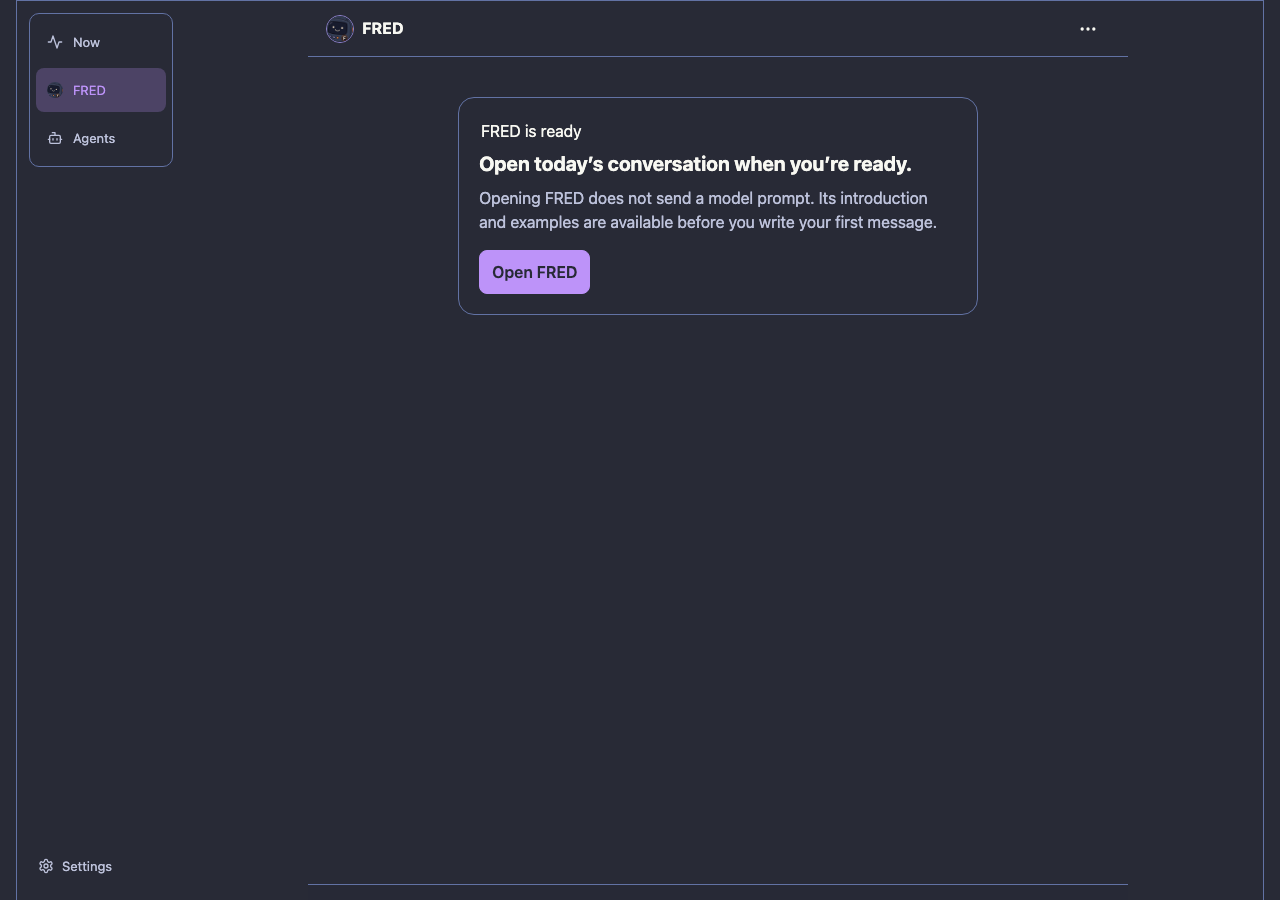
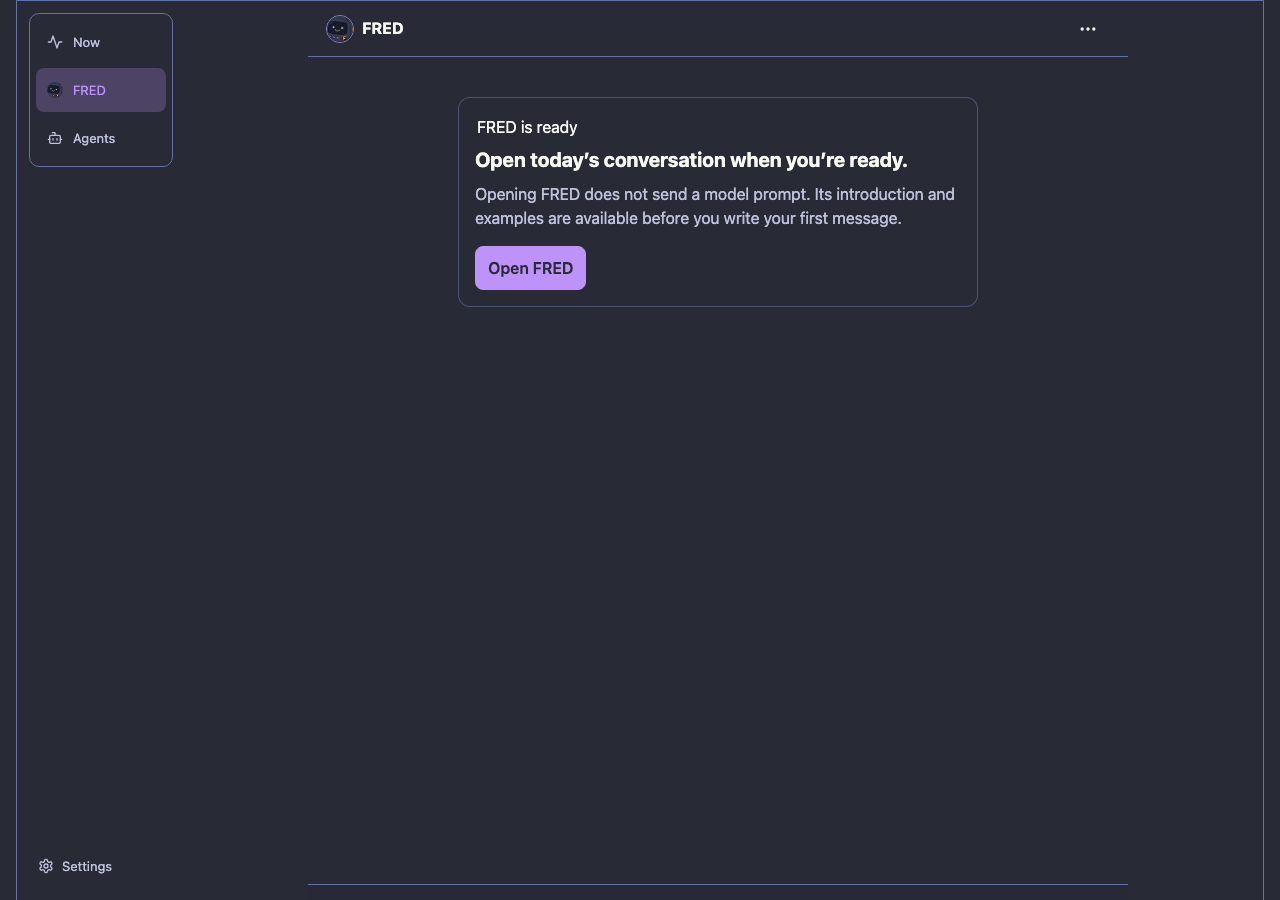
Guard remaining FRED mutations

Changed region(s): [[0.3438, 0.1244, 0.75, 0.3422]]

diff --git a/lib/hq/remote_ui/assets/app.js b/lib/hq/remote_ui/assets/app.js
@@ -4727,11 +4727,11 @@ function renderPersonalAssistantWelcome() {
 
 function renderPersonalAssistantSetup(item) {
   const config = item.config || {};
-  return `<section class="pa-setup" aria-labelledby="pa-setup-title"><span class="section-label">FRED setup</span><h2 id="pa-setup-title">Choose how FRED should work</h2><p>Review the Codex model, reasoning effort, and IANA timezone before saving. Opening FRED creates today’s conversation; your first message stays yours.</p><form id="personal-assistant-setup-form"><label>Codex model<input name="model" required value="${escapeAttr(config.model || "gpt-5.6-sol")}" autocomplete="off"></label><label>Reasoning effort<input name="reasoning_effort" required value="${escapeAttr(config.reasoning_effort || "medium")}" autocomplete="off"></label><label>IANA timezone<input name="timezone" required value="${escapeAttr(config.timezone || Intl.DateTimeFormat().resolvedOptions().timeZone || "UTC")}" placeholder="Asia/Jakarta" autocomplete="off"></label><label class="pa-confirmation"><input name="confirmed" type="checkbox" required> I confirm these settings for FRED.</label><button class="ui-button" data-variant="brand" type="submit">Save FRED setup</button></form></section>`;
+  return `<section class="pa-setup ui-surface" aria-labelledby="pa-setup-title"><span class="section-label">FRED setup</span><h2 id="pa-setup-title">Choose how FRED should work</h2><p id="pa-setup-guidance">Review the Codex model, reasoning effort, and IANA timezone before saving. Opening FRED creates today’s conversation; your first message stays yours.</p><form id="personal-assistant-setup-form" class="ui-form-layout" aria-describedby="pa-setup-guidance"><div class="ui-field"><label class="ui-field__label" for="pa-model">Codex model</label><input class="ui-input" id="pa-model" name="model" required value="${escapeAttr(config.model || "gpt-5.6-sol")}" autocomplete="off"></div><div class="ui-field"><label class="ui-field__label" for="pa-reasoning-effort">Reasoning effort</label><input class="ui-input" id="pa-reasoning-effort" name="reasoning_effort" required value="${escapeAttr(config.reasoning_effort || "medium")}" autocomplete="off"></div><div class="ui-field"><label class="ui-field__label" for="pa-timezone">IANA timezone</label><input class="ui-input" id="pa-timezone" name="timezone" required value="${escapeAttr(config.timezone || Intl.DateTimeFormat().resolvedOptions().timeZone || "UTC")}" placeholder="Asia/Jakarta" autocomplete="off"></div><label class="pa-confirmation"><input name="confirmed" type="checkbox" required> I confirm these settings for FRED.</label><button class="ui-button" data-variant="brand" type="submit">Save FRED setup</button></form></section>`;
 }
 
 function renderPersonalAssistantReady(item) {
-  return `<section class="pa-ready"><span class="section-label">FRED is ready</span><h2>Open today’s conversation when you’re ready.</h2><p>Opening FRED does not send a model prompt. Its introduction and examples are available before you write your first message.</p><button class="ui-button" data-variant="brand" type="button" data-open-personal-assistant>Open FRED</button></section>`;
+  return `<section class="pa-ready ui-surface"><span class="section-label">FRED is ready</span><h2>Open today’s conversation when you’re ready.</h2><p>Opening FRED does not send a model prompt. Its introduction and examples are available before you write your first message.</p><button class="ui-button" data-variant="brand" type="button" data-open-personal-assistant>Open FRED</button></section>`;
 }
 
 function renderPersonalAssistant() {

diff --git a/lib/hq/remote_ui/assets/app.css b/lib/hq/remote_ui/assets/app.css
@@ -5750,7 +5750,7 @@ body:has(.personal-assistant-page) .app-header { display: none; }
 .pa-welcome { display: grid; gap: 12px; max-width: 640px; margin: 0 auto; border: 1px solid var(--border); border-radius: 12px; padding: 16px; background: var(--panel); }
 .pa-suggestions { display: flex; gap: 8px; overflow-x: auto; padding-bottom: 2px; }
 .pa-suggestions button { flex: 0 0 auto; min-height: var(--touch-target); border: 1px solid color-mix(in srgb, var(--accent) 54%, var(--border)); border-radius: 999px; padding: 0 12px; background: transparent; color: var(--accent); font-size: 13px; }
-.pa-setup, .pa-ready { max-width: 520px; margin: 20px auto; padding: 20px; border: 1px solid var(--border); border-radius: 16px; background: var(--panel); }.pa-setup h2, .pa-ready h2 { margin: 8px 0; font-size: 20px; }.pa-setup p, .pa-ready p { margin: 0 0 16px; color: var(--muted); line-height: 1.5; }.pa-setup form { display: grid; gap: 12px; }.pa-setup label { display: grid; gap: 5px; color: var(--muted); font-size: 13px; }.pa-setup input { min-height: var(--touch-target); padding: 0 10px; border: 1px solid var(--border); border-radius: 8px; background: var(--bg); color: var(--text); }.pa-setup .pa-confirmation { display: flex; align-items: center; gap: 8px; color: var(--text); }.pa-setup .pa-confirmation input { min-height: var(--touch-target); width: var(--touch-target); }
+.pa-setup, .pa-ready { max-width: 520px; margin: 20px auto; }.pa-setup h2, .pa-ready h2 { margin: 8px 0; font-size: 20px; }.pa-setup p, .pa-ready p { margin: 0 0 16px; color: var(--muted); line-height: 1.5; }.pa-confirmation { display: flex; align-items: center; gap: 8px; color: var(--text); }.pa-confirmation input { min-height: var(--touch-target); width: var(--touch-target); }
 .pa-inline-notice { max-width: 640px; margin: 14px auto 0; color: var(--muted); }
 .pa-inline-action { display: grid; gap: 10px; max-width: 640px; margin: 12px 0 12px; border: 1px solid color-mix(in srgb, var(--accent) 72%, var(--border)); border-left: 4px solid var(--accent); border-radius: 12px; padding: 14px; background: color-mix(in srgb, var(--panel) 94%, var(--accent)); }
 .pa-inline-action.receipt { border-color: color-mix(in srgb, var(--success) 70%, var(--border)); border-left-color: var(--success); }

diff --git a/test/remote_server_test.rb b/test/remote_server_test.rb
@@ -461,6 +461,28 @@ module RemoteServerTest
                  "expected #{path} to reject ordinary control of FRED")
         end
       end
+      [["POST", "/agents/#{key}/memory/rebuild", {}], ["PUT", "/agents/#{key}/reading", {}], ["POST", "/agents/#{key}/pull-requests/refresh", {}]].each do |method, path, body|
+        begin
+          server.send(:route, service, method, path, body, nil)
+          raise "expected protected generic write rejection for #{path}"
+        rescue HQ::RemoteServer::Error => e
+          assert(e.status == 409 && e.message.include?("dedicated lifecycle"),
+                 "expected #{path} to reject ordinary writes to FRED")
+        end
+      end
+      protected_agent = service.send(:find_agent!, key)
+      protected_attachment_path = File.join(protected_agent.workspace, "protected.txt")
+      File.write(protected_attachment_path, "Protected FRED attachment\n")
+      protected_agent.add_user_message!("Keep this attachment.", attachments: [{ "type" => "file", "title" => "Protected attachment", "path" => protected_attachment_path }])
+      service.send(:save_agent, protected_agent)
+      protected_attachment_id = service.agent(key)[:attachments].first.fetch("id")
+      begin
+        server.send(:route, service, "DELETE", "/attachments/#{protected_attachment_id}", {}, nil)
+        raise "expected protected attachment deletion rejection"
+      rescue HQ::RemoteServer::Error => e
+        assert(e.status == 409 && e.message.include?("dedicated lifecycle") && File.exist?(protected_attachment_path),
+               "expected attachment deletion to preserve FRED-owned file and metadata")
+      end
       begin
         server.send(:route, service, "POST", "/agents/archive", { "keys" => [key] }, nil)
         raise "expected protected bulk archive rejection"
@@ -6431,6 +6453,11 @@ module RemoteServerTest
            js[:body].include?("I confirm these settings for FRED.") &&
            js[:body].include?("Opening FRED does not send a model prompt."),
            "expected chat-first FRED setup to show explicit model, effort, timezone, confirmation, and ready states")
+    assert(js[:body].include?('class="pa-setup ui-surface"') &&
+           js[:body].include?('class="ui-field__label" for="pa-model"') &&
+           js[:body].include?('class="ui-input" id="pa-timezone"') &&
+           js[:body].include?('aria-describedby="pa-setup-guidance"'),
+           "expected FRED setup to use shared surface and field contracts with connected guidance")
     assert(!js[:body].include?("confirmed: true, model: \"gpt-5.6-sol\""),
            "expected first-use FRED flow not to silently submit fixed settings")
     assert(js[:body].include?("personalAssistant ? \"/personal-assistant/messages\""),

diff --git a/lib/hq/remote_server.rb b/lib/hq/remote_server.rb
@@ -2037,7 +2037,7 @@ module HQ
     end
 
     def rebuild_agent_memory(key)
-      agent = find_agent!(key)
+      agent = reject_personal_assistant_control!(find_agent!(key))
       written = AgentChatLog.new(agent).rebuild_memory_from_raw_log!
       raise Error.new("Unable to rebuild memory from raw log", status: 422) unless written
       save_agent(agent)
@@ -2061,8 +2061,8 @@ module HQ
     end
 
     def refresh_agent_pull_request_metadata(key)
+      agent = reject_personal_assistant_control!(find_agent!(key))
       ensure_github_enabled!
-      agent = find_agent!(key)
       references = PullRequestDiff.references_for_agent(agent)
       catalog_store = pull_request_catalog(agent)
       catalog_store.discover(references)
@@ -2103,8 +2103,8 @@ module HQ
     end
 
     def refresh_agent_pull_request_diff(key, id)
+      agent = reject_personal_assistant_control!(find_agent!(key))
       ensure_github_enabled!
-      agent = find_agent!(key)
       reference = pull_request_reference!(agent, id)
       refresh_pull_request_snapshot(reference)
     rescue PullRequestDiff::Error => e
@@ -2112,8 +2112,8 @@ module HQ
     end
 
     def refresh_agent_pull_requests(key)
+      agent = reject_personal_assistant_control!(find_agent!(key))
       ensure_github_enabled!
-      agent = find_agent!(key)
       refreshed = []
       failed = []
       PullRequestDiff.references_for_agent(agent).each do |reference|
@@ -2409,6 +2409,7 @@ module HQ
         break
       end
       raise Error.new("Attachment not found", status: 404) unless target_agent && target_attachment
+      reject_personal_assistant_control!(target_agent)
 
       deleted = target_agent.delete_attachment!(target_attachment)
       cleanup_uploaded_attachment_file(target_agent, target_attachment) if deleted
@@ -2834,7 +2835,7 @@ module HQ
     end
 
     def mark_agent_read(key)
-      target = find_agent!(key)
+      target = reject_personal_assistant_control!(find_agent!(key))
       if target.unread?
         target.mark_read!
         save_agent(target)

diff --git a/CHANGELOG.md b/CHANGELOG.md
@@ -1,13 +1,11 @@
 # Changelog
 
+All notable changes to Tycho will be documented in this file.
+
 ## Unreleased
 
 - Make FRED setup explicit and chat-first, protect its daily lifecycle from
   ordinary agent mutations, and add deterministic setup/ready UI captures.
-
-All notable changes to Tycho will be documented in this file.
-
-## Unreleased
 
 ## 0.10.2 - 2026-08-30
 
